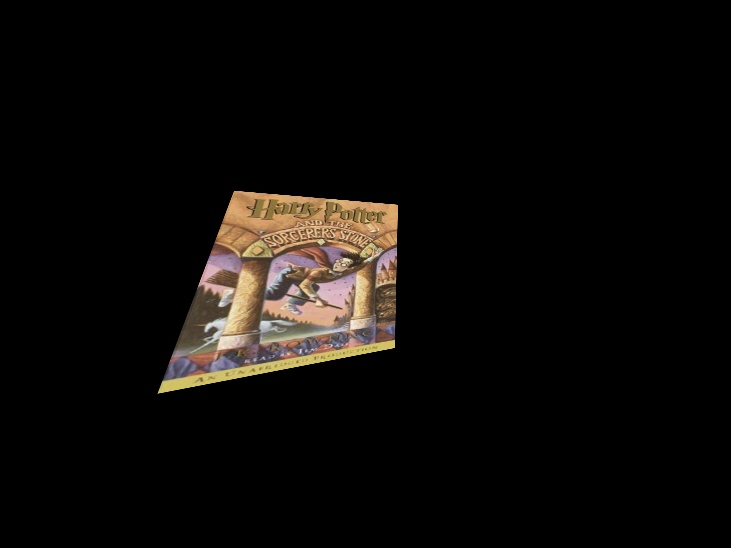
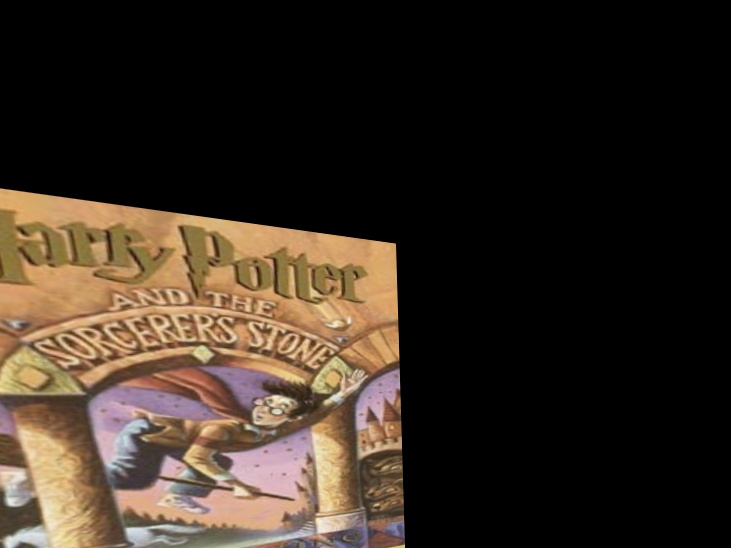
fixing inliers

diff --git a/python/planarH.py b/python/planarH.py
@@ -16,10 +16,11 @@ def computeH(x1, x2):
     x2 = x2.T
     
     N = len(x1)
+    
     if N < 4:
         raise ValueError('At least 4 points required to compute homography.')
     
-    A = np.zeros([2 * N, 9])
+    A = np.empty([2 * N, 9])
     for i in range(N):
         x1_xi = x1[i, 0] # x coordinate in x1
         x1_yi = x1[i, 1] # y coordinate in x1
@@ -28,7 +29,7 @@ def computeH(x1, x2):
         A[2*i] = [x2_xi, x2_yi, 1, 0, 0, 0, -x1_xi * x2_xi, -x1_xi * x2_yi, -x1_xi]
         A[2*i + 1] = [0, 0, 0, x2_xi, x2_yi, 1, -x1_yi * x2_xi, -x1_yi * x2_yi, -x1_yi]
     
-    _, _, V_t = np.linalg.svd(A.T @ A)
+    _, _, V_t = np.linalg.svd(A)
     smallest_eigenvector = V_t[-1, :]
     H2to1 = smallest_eigenvector.reshape(3,3)
     return H2to1
@@ -44,27 +45,31 @@ def computeH_norm(x1, x2):
 	# OUTPUTS
 	# H2to1 : 3 x 3 matrix; best homography from image 2 to 1 in the least-square sense
  
-	# TODO: Shift so centroid is at the origin
+	# TODO: Shift so centroid is at the origin (NOTE: Done in similarity transform!)
 	# TODO: Normalize the points so that the largest distance from the origin is equal to sqrt(2)
  
 	print('Starting computeH_norm')
 	print(f'computeH_norm >> x1:\n{x1}')
 	print(f'computeH_norm >> x2:\n{x2}')
     
-	mean_x1_x = np.mean(x1, axis = 0)[0]
-	mean_x1_y = np.mean(x1, axis = 0)[0]
-	mean_x2_x = np.mean(x2, axis = 0)[0]
-	mean_x2_y = np.mean(x2, axis = 0)[0]
+	mean_x1_x = np.mean(x1[:,0])
+	mean_x1_y = np.mean(x1[:,1])
+	mean_x2_x = np.mean(x2[:,0])
+	mean_x2_y = np.mean(x2[:,1])
  
-	N = len(x1)
-	s_x1 = np.zeros(N)
-	s_x2 = np.zeros(N)
- 
-	for i in range(N):
-		s_x1[i] = np.sqrt((x1[i, 0] - mean_x1_x) ** 2 + (x1[i, 1] - mean_x1_y) ** 2)
-		s_x2[i] = np.sqrt((x2[i, 0] - mean_x2_x) ** 2 + (x2[i, 1] - mean_x2_y) ** 2)
+	N1 = x1.shape[0]
+	N2 = x2.shape[0]
+	s_x1 = np.empty((N1))
+	s_x2 = np.empty((N2))
 
+	# Get the scaling factor for both x1 and x2
+	for i in range(N1):
+		s_x1[i] = np.sqrt((x1[i, 0] - mean_x1_x) ** 2 + (x1[i, 1] - mean_x1_y) ** 2)
 	x1_scale = np.sqrt(2)/np.amax(s_x1)
+ 
+	for i in range(N2):
+		s_x2[i] = np.sqrt((x2[i, 0] - mean_x2_x) ** 2 + (x1[i, 1] - mean_x1_y) ** 2)
+	x2_scale = np.sqrt(2)/np.amax(s_x2)
 
 	# TODO: Similarity transform 1: scale and shift (translate) the origin
 	# T1 = scaling matrix (dot) translation matrix
@@ -73,24 +78,29 @@ def computeH_norm(x1, x2):
 		[0, x1_scale, -x1_scale * mean_x1_y],
 		[0, 0, 1]
 	])
-	x1_hom = np.hstack((x1, np.ones((len(x1), 1))))
-	print(f'computeH_norm >> x1_hom:\n{x1_hom}')
-	x1_hom = T1 @ x1_hom.T
-	print(f'computeH_norm >> x1_hom after transformed:\n{x1_hom}')
+ 
+	# x1_hom = np.hstack((x1, np.ones((len(x1), 1))))
+	# print(f'computeH_norm >> x1_hom:\n{x1_hom}')
+	# x1_hom = T1 @ x1_hom.T
+	# print(f'computeH_norm >> x1_hom after transformed:\n{x1_hom}')
+	x1_normalized = np.hstack((x1, np.ones((N1, 1))))
+	x1_hom = T1 @ x1_normalized.T
 
 	# TODO: Similarity transform 2
-	x2_scale = np.sqrt(2)/np.amax(s_x2)
 	T2 = np.array([
 		[x2_scale, 0, -x2_scale * mean_x2_x],
 		[0, x2_scale, -x2_scale * mean_x2_y],
 		[0, 0, 1]
 	])
-	x2_hom = np.hstack((x2, np.ones((len(x1), 1))))
-	print(f'computeH_norm >> x2_hom: {x2_hom}')
-	x2_hom = T2 @ x2_hom.T
-	print(f'computeH_norm >> x2_hom after transformed:\n{x2_hom}')
+	# x2_hom = np.hstack((x2, np.ones((len(x1), 1))))
+	# print(f'computeH_norm >> x2_hom: {x2_hom}')
+	# x2_hom = T2 @ x2_hom.T
+	# print(f'computeH_norm >> x2_hom after transformed:\n{x2_hom}')
+	x2_normalized = np.hstack((x2, np.ones((N2, 1))))
+	x2_hom = T2 @ x2_normalized.T
  
 	# TODO: Compute homography
+	# H2to1_normalized = computeH(x1_hom, x2_hom)
 	H2to1_normalized = computeH(x1_hom, x2_hom)
 	print(f'computeH_norm >> H2to1_normalized:\n{H2to1_normalized}')
 
@@ -161,7 +171,6 @@ def compositeH(H2to1, template, img, scale_factor=2.5):
     # OUTPUTS
     # composite_img : template on top of original image
     
-    template = cv2.resize(template, None, fx=scale_factor, fy=scale_factor, interpolation=cv2.INTER_LINEAR)
     # create a mask of the same size as the template
     mask = np.ones(template.shape[:2], dtype=np.uint8) * 255
 

diff --git a/ec/helper.py b/ec/helper.py
@@ -1,0 +1,70 @@
+import numpy as np
+import cv2
+import scipy.io as sio
+from matplotlib import pyplot as plt
+import skimage.feature
+
+PATCHWIDTH = 9
+
+def briefMatch(desc1,desc2,ratio=0.8):
+
+	matches = skimage.feature.match_descriptors(desc1,desc2,'hamming',cross_check=True,max_ratio=ratio)
+	return matches
+	
+	
+
+def plotMatches(im1,im2,matches,locs1,locs2):
+	fig, ax = plt.subplots(nrows=1, ncols=1)
+	im1 = cv2.cvtColor(im1, cv2.COLOR_BGR2GRAY)
+	im2 = cv2.cvtColor(im2, cv2.COLOR_BGR2GRAY)
+	plt.axis('off')
+	skimage.feature.plot_matches(ax,im1,im2,locs1,locs2,matches,matches_color='r',only_matches=True)
+	plt.show()
+	return
+
+
+
+def makeTestPattern(patchWidth, nbits):
+	np.random.seed(0)
+	compareX = patchWidth*patchWidth * np.random.random((nbits,1))
+	compareX = np.floor(compareX).astype(int)
+	np.random.seed(1)
+	compareY = patchWidth*patchWidth * np.random.random((nbits,1))
+	compareY = np.floor(compareY).astype(int)
+
+	return (compareX, compareY)
+
+
+
+
+def computePixel(img, idx1, idx2, width, center):
+	halfWidth = width // 2
+	col1 = idx1 % width - halfWidth
+	row1 = idx1 // width - halfWidth
+	col2 = idx2 % width - halfWidth
+	row2 = idx2 // width - halfWidth
+	return 1 if img[int(center[0]+row1)][int(center[1]+col1)] < img[int(center[0]+row2)][int(center[1]+col2)] else 0
+
+
+def computeBrief(img, locs):
+	
+	
+	patchWidth = 9
+	nbits = 256
+	compareX, compareY = makeTestPattern(patchWidth,nbits)
+	m, n = img.shape
+
+	halfWidth = patchWidth//2
+	
+	locs = np.array(list(filter(lambda x: halfWidth <= x[0] < m-halfWidth and halfWidth <= x[1] < n-halfWidth, locs)))
+	desc = np.array([list(map(lambda x: computePixel(img, x[0], x[1], patchWidth, c), zip(compareX, compareY))) for c in locs])
+	
+	return desc, locs
+	
+
+
+def corner_detection(im, sigma=1.5):
+	# fast method
+	result_img = skimage.feature.corner_fast(im, PATCHWIDTH)
+	locs = skimage.feature.corner_peaks(result_img, min_distance=1)
+	return locs

diff --git a/ec/panorama.py b/ec/panorama.py
@@ -1,0 +1,39 @@
+import numpy as np
+import cv2
+import skimage.color
+from planarH import compositeH
+from planarH import computeH_ransac
+from matchPics import matchPics
+from time import time
+
+# MAIN PROGRAM
+print('Starting panorama.py')
+start_time = time()
+
+# Load Images
+pano_left = cv2.imread('../data/kos_left.jpg')
+pano_right = cv2.imread('../data/kos_right.jpg')
+
+im1_H, im1_W, _ = pano_left.shape
+im2_H, im2_W, _ = pano_right.shape
+width = round(max(im2_W, im1_W) * 1.2)
+
+adjusted_right = cv2.copyMakeBorder(pano_right, 0, im2_H - im1_H, width - im2_W, 0, cv2.BORDER_CONSTANT, 0)
+
+# Select Matching Points
+matches, locs1, locs2 = matchPics(pano_left, adjusted_right, sigma=3.0, ratio=0.8)
+# plotMatches(pano_left, adjusted_right, matches, locs1, locs2)
+
+locs1 = locs1[matches[:, 0], 0:2]
+locs2 = locs2[matches[:, 1], 0:2]
+
+# Stitch Images Together
+bestH2to1, _ = computeH_ransac(locs1, locs2, iters=1000, thres=4.0)
+panorama_stitched = compositeH(bestH2to1, pano_left, adjusted_right)
+panorama = np.maximum(adjusted_right, panorama_stitched)
+
+cv2.imwrite('results/panorama_stitched_own.jpg', panorama)
+
+end_time = time()
+print(f'and {len(matches)} matches.')
+print(f'Finished panorama.py in {end_time - start_time} seconds.')

diff --git a/ec/matchPics.py b/ec/matchPics.py
@@ -1,0 +1,41 @@
+import numpy as np
+import cv2
+import skimage.color
+from helper import briefMatch
+from helper import computeBrief
+from helper import corner_detection
+import time
+
+def matchPics(I1, I2, sigma=0.15, ratio=0.8):
+    # adjust sigma and ratio
+	# sigma = 0.15
+	# ratio = 0.8
+
+	# start timing
+	start_time = time.time()
+ 
+	# TODO: I1, I2 : Images to match
+
+	# TODO: Convert Images to GrayScale
+	if len(I1.shape) == 3:
+		I1 = skimage.color.rgb2gray(I1)
+	if len(I2.shape) == 3:
+		I2 = skimage.color.rgb2gray(I2)
+    
+	# TODO: Detect Features in Both Images
+	locs1 = corner_detection(I1, sigma)
+	locs2 = corner_detection(I2, sigma)
+	
+	# TODO: Obtain descriptors for the computed feature locations
+	desc1, locs1 = computeBrief(I1, locs1)
+	desc2, locs2 = computeBrief(I2, locs2)
+
+	# TODO: Match features using the descriptors
+	matches = briefMatch(desc1, desc2, ratio)
+ 
+	end_time = time.time()
+	duration = end_time - start_time
+ 
+	print(f'matchPics: Finished computing {len(matches)} matches with sigma = {sigma} and ratio = {ratio} for {duration:.3f} seconds.')
+
+	return matches, locs1, locs2

diff --git a/python/HarryPotterize.py b/python/HarryPotterize.py
@@ -28,7 +28,7 @@ print('Done doing matchPics with cv_desk and cv_cover')
 locs1 = locs1[matches[:,0], 0:2]
 locs2 = locs2[matches[:,1], 0:2]
 
-H2to1, inliers = computeH_ransac(locs1, locs2, iters=700, thres=2.0)
+H2to1, inliers = computeH_ransac(locs1, locs2, iters=1000, thres=4.0)
 print('Done computing Homography with RANSAC algorithm')
 
 # warps hp_cover.jpg to the dimension of cv_desk.png using skimage function skimage.transform.warp
